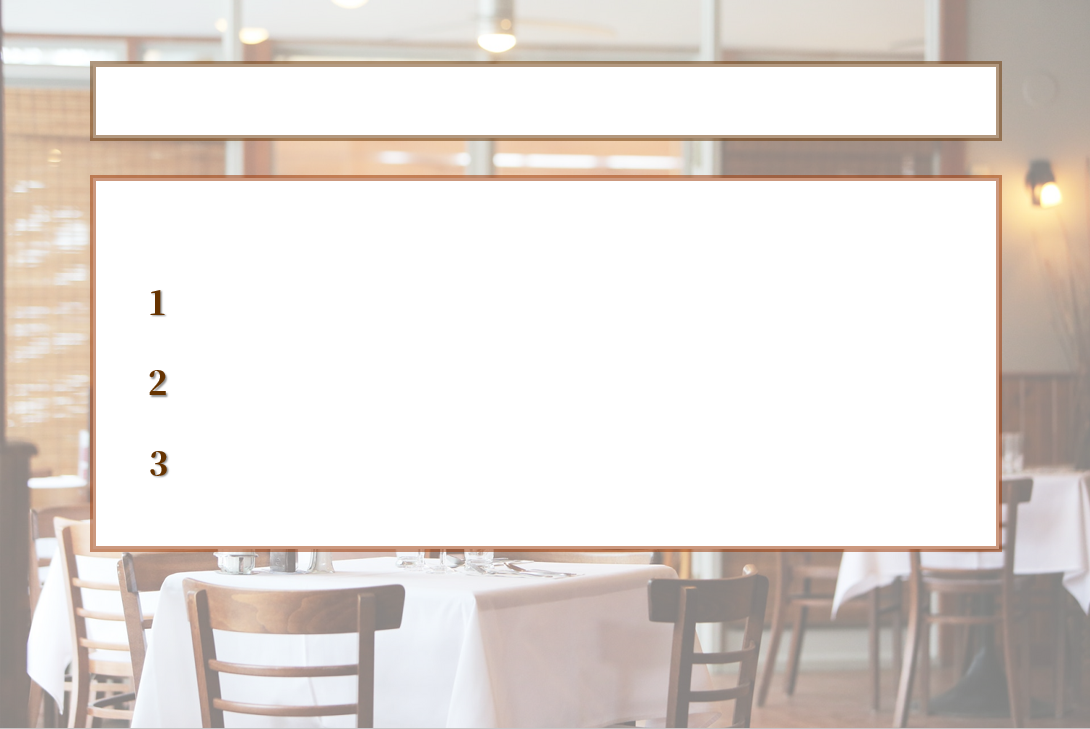
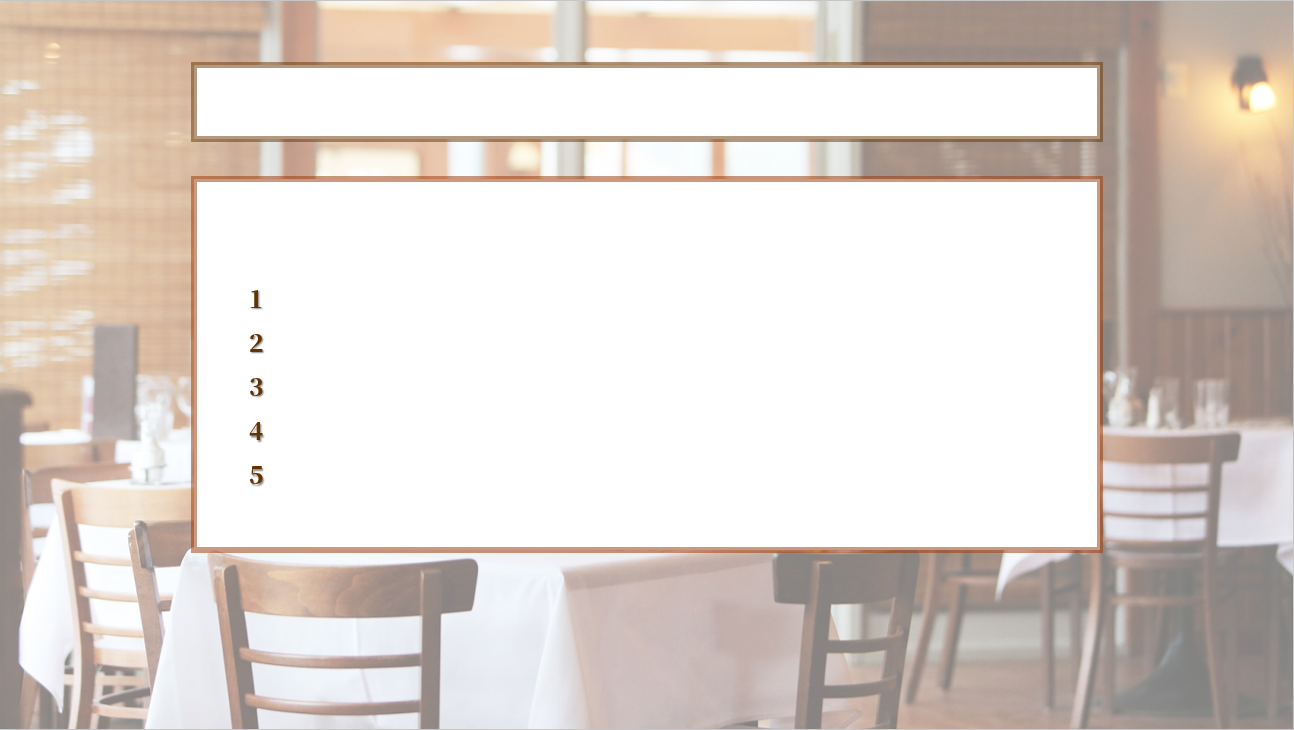
可以秀5個
可以秀5個

diff --git a/介面.py b/介面.py
@@ -13,7 +13,7 @@ image.pack()
 # 上半部
 top_header = Label(window, text='請選擇權重：',
                    font='微軟正黑體', bg='white')
-top_header.place(x=105, y=73)
+top_header.place(x=205, y=73)
 
 
 # 權重欄位
@@ -26,29 +26,31 @@ class CreateSpinbox:
         self.spinbox.place(x=x2, y=73)
 
 
-taste = CreateSpinbox('美味', 250, 300)
-cp = CreateSpinbox('CP值', 400, 450)
-space = CreateSpinbox('環境', 550, 600)
-service = CreateSpinbox('服務', 700, 750)
+taste = CreateSpinbox('美味', 350, 400)
+cp = CreateSpinbox('CP值', 500, 550)
+space = CreateSpinbox('環境', 650, 700)
+service = CreateSpinbox('服務', 800, 850)
 # 下半部
 bottom_header = Label(window, text='以下為推薦您的餐廳：',
                       bg='white', font='微軟正黑體')
-bottom_header.place(x=140, y=203)
+bottom_header.place(x=240, y=203)
 
 
 # 結果欄位
 class CreateVar:
-    def __init__(self, y):
+    def __init__(self, x, y):
         self.var = StringVar()
         self.label = Label(window, textvariable=self.var,
                            bg='white', font='微軟正黑體')
-        self.label.place(x=185, y=y)
+        self.label.place(x=x, y=y)
 
 
-one = CreateVar(274)
-two = CreateVar(355)
-three = CreateVar(436)
-sequence = [one, two, three]
+one = CreateVar(285,270)
+two = CreateVar(285,315)
+three = CreateVar(285,360)
+four = CreateVar(285,405)
+five = CreateVar(285,450)
+sequence = [one, two, three, four, five]
 
 
 # 得到權重
@@ -76,7 +78,7 @@ def restaurants(weight):
             score += AllScore[i][j] * weight[j]
         AllWeightedScore[i.strip('11-20')] = score
     result = list()
-    for i in range(3):
+    for i in range(5):
         for j in AllWeightedScore.keys():
             if AllWeightedScore[j] == max(AllWeightedScore.values()):
                 result.append(j)
@@ -88,12 +90,12 @@ def restaurants(weight):
 # 按鈕啟動函數
 def click():
     global sequence
-    for i in range(3):
+    for i in range(5):
         sequence[i].var.set(restaurants(weight())[i])
 
 # 按鈕
 search_btn = Button(window, text='開始搜尋', command=lambda: click(),
                     bg='white', font='微軟正黑體')
-search_btn.place(x=870, y=66)
+search_btn.place(x=970, y=66)
 
 window.mainloop()
